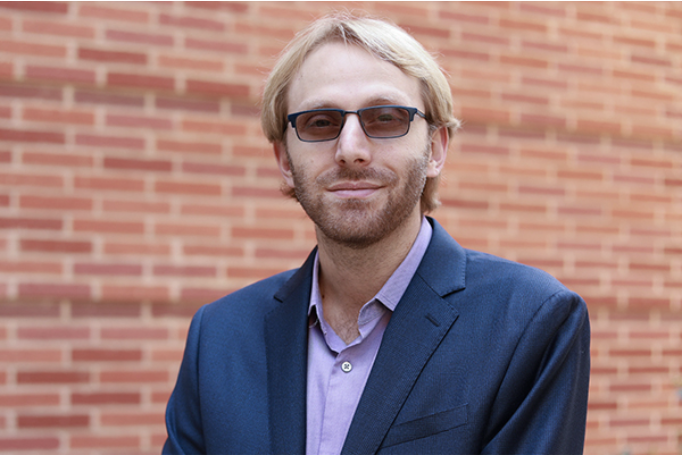
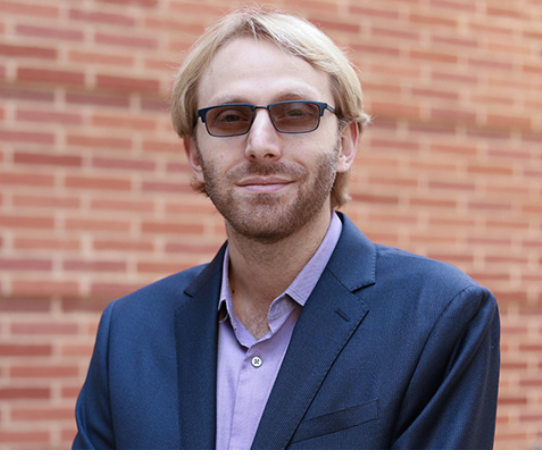
Added the fixed images

diff --git a/index.html b/index.html
@@ -29,7 +29,7 @@
             <div class='figure1'>
                 <div class='speaker-header'>
                     <div class='circle_border'>
-                        <img src='images/sergio.png' alt="Speaker 1" />
+                        <img src='public/images/sergio.png' alt="Speaker 1" height="250px" width="250px" />
                     </div>
                 </div>
                 <div class="rightinfo">
@@ -68,7 +68,7 @@
             <div class='figure2'>
                 <div class='speaker-header'>
                     <div class='circle_border'>
-                        <img src='images/jennifer.png' alt="Speaker 2" />
+                        <img src='public/images/jennifer.png' alt="Speaker 2" height="250px" width="250px" />
                     </div>
                     <!-- <h4>Jennifer Jay</h4>
                     <h4>Civil & Environmental Engineering (C&EE)</h4>
@@ -99,7 +99,7 @@
             <div class='figure3'>
                 <div class='speaker-header'>
                     <div class='circle_border'>
-                        <img src='images/dino.png' alt="Speaker 3" />
+                        <img src='public/images/dino.png' alt="Speaker 3" height="250px" width="250px" />
                     </div>
                     <!-- <h4>Dino di Carlo</h4>
                     <h4>Mechanical & Aerospace Engineering (MECH&AE)</h4>

diff --git a/stylesheets/index.css b/stylesheets/index.css
@@ -139,22 +139,24 @@
   }
 
   .circle_border {
-    display: flex;
+    display: flex; 
     align-items: center;
-    /* display: inline; */
-    /* position: relative; */
+    /* display: inline; 
+    position: relative;  */
     width: 300px;
     height: 300px;
     border-radius: 100%;
     background: linear-gradient(to right, #5670ff,  #f0d4d9);
+   
   
   }
   
   img {
-    max-width: 92%;
+    max-width: 100%;
     border-radius: 100%;
     position: relative;
-    top: 4%;
+    margin-left:30px;
+   
   }
 
 .rightinfo {
